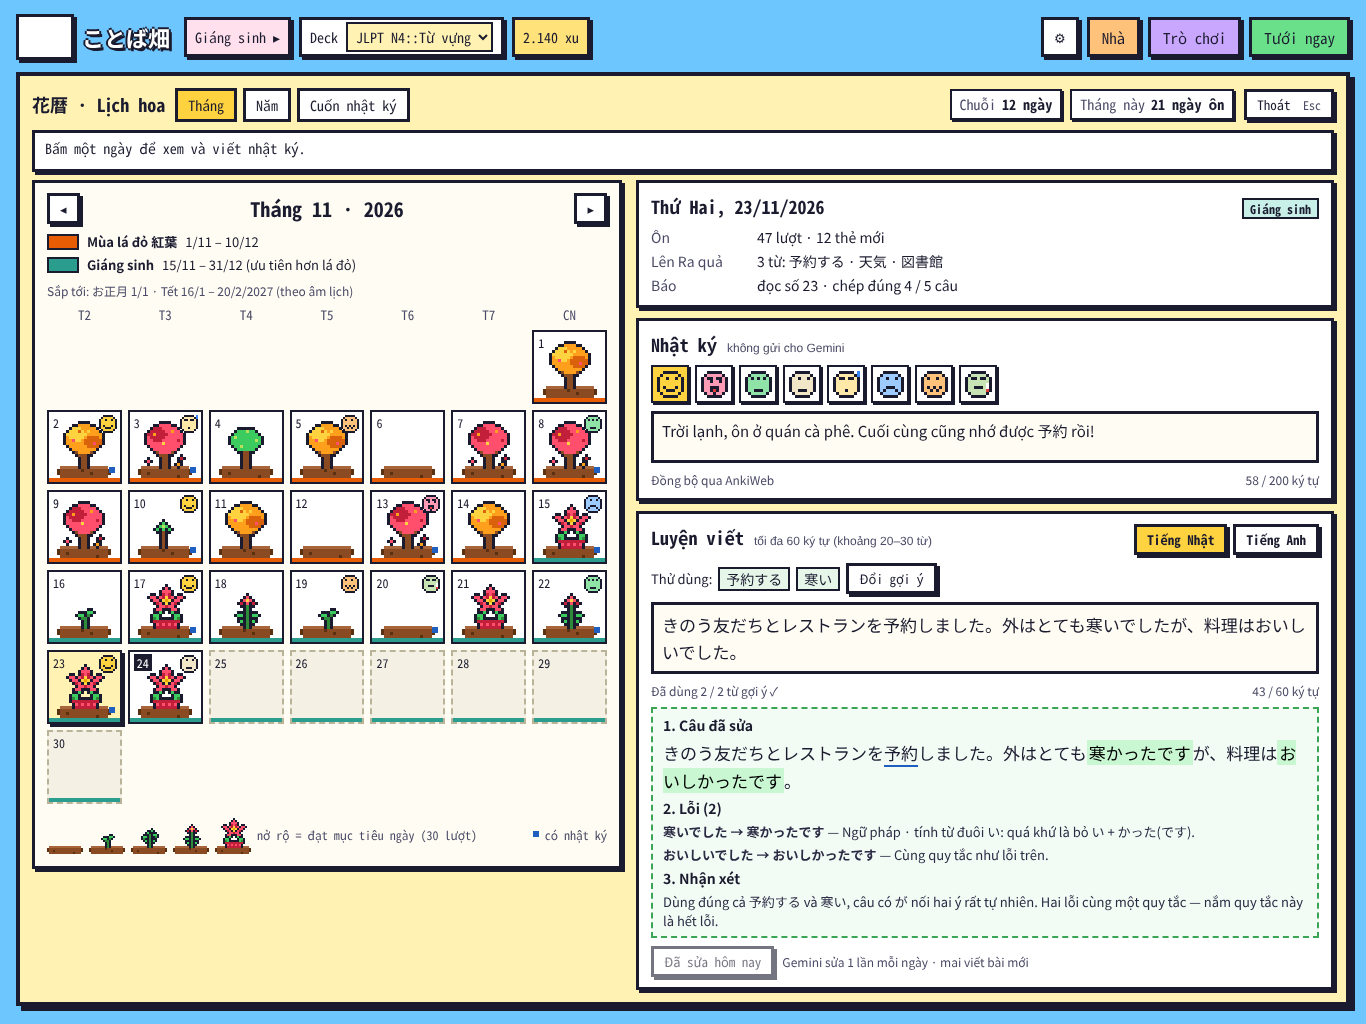
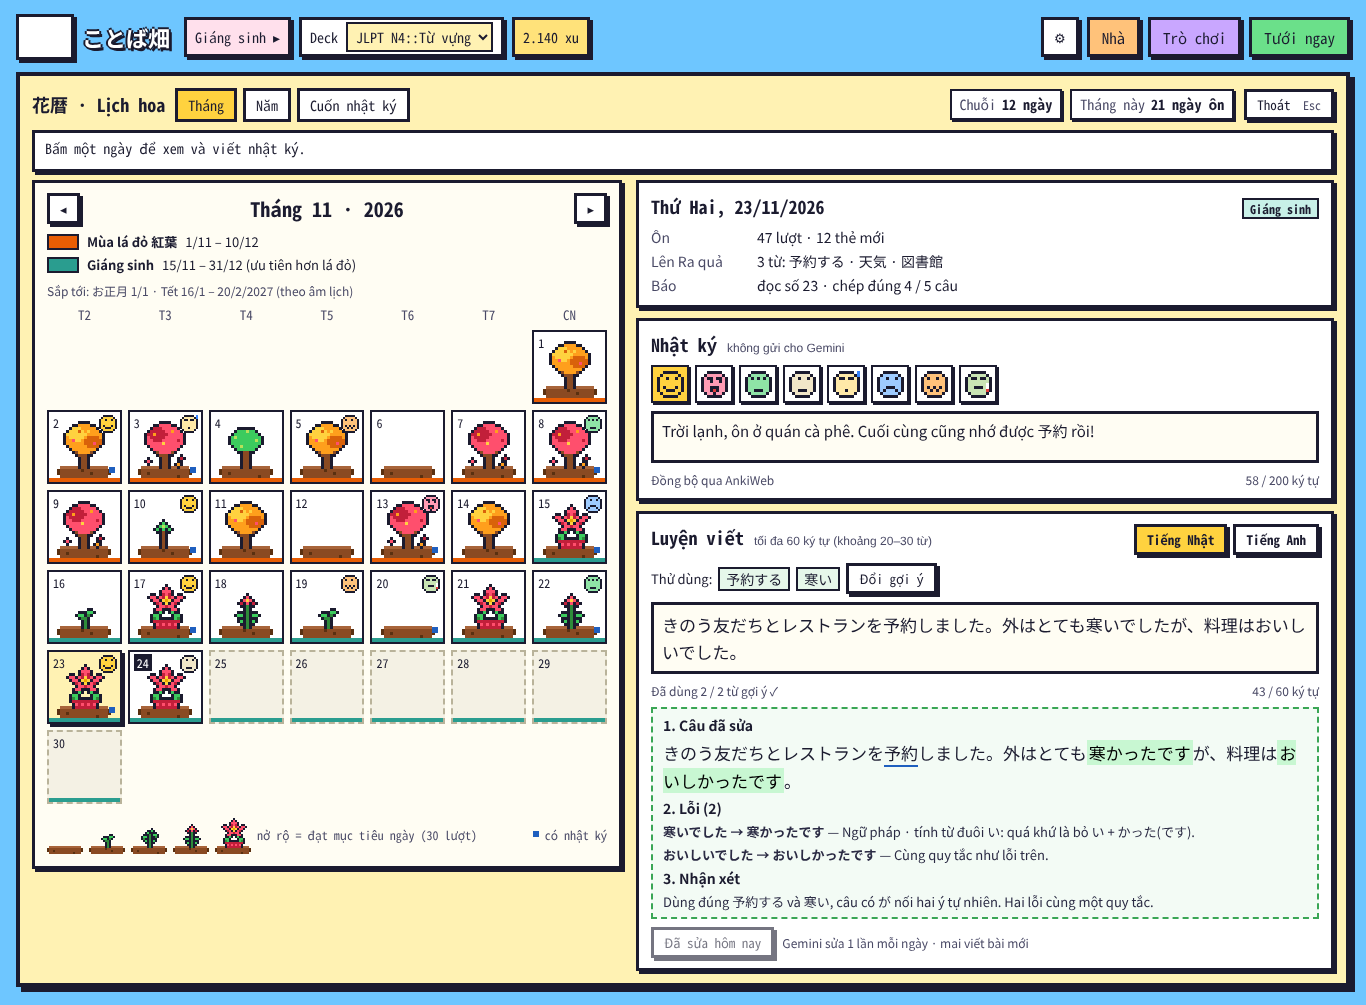
Kế hoạch 1.20: giới hạn độ dài đầu ra của Gemini khi sửa luyện viết, thử nội dung dài tối đa
- Lời nhắc ghi rõ giới hạn: tối đa 3 lỗi, giải thích 1 câu ≤ 60 ký tự, nhận xét ≤ 2 câu
  ≤ 100 ký tự, câu đã sửa ≤ bài gốc + 20%; máy cắt nếu quá (không gọi lại)
- Bản mẫu có chế độ ?long=ja|en: nhật ký 200 ký tự, luyện viết 60 ký tự / 30 từ, 3 lỗi —
  hiện hết, không tràn ở 1366 và 1024px; cuốn nhật ký ngắt trang theo chiều cao thật

Claude-Session: https://claude.ai/code/session_014Ka8eJ38fG28pkk8pqJwnr

Changed region(s): [[0.0, 0.0, 0.9839, 0.9871]]

diff --git a/thiet_ke_1_20/lich_hoa.html b/thiet_ke_1_20/lich_hoa.html
@@ -116,6 +116,27 @@
 <script>
 "use strict";
 const V = new URLSearchParams(location.search).get("v") || "month";
+// ?long=ja|en: thử nội dung dài tối đa (nhật ký 200 ký tự, luyện viết 60 ký tự / 30 từ, Gemini trả về đúng giới hạn)
+const LONG = new URLSearchParams(location.search).get("long") || "";
+const DIARY_MAX = "Hôm nay đi làm về muộn, mưa to nên ghé quán cà phê gần nhà ôn bài. Ôn được 47 thẻ, cuối cùng cũng nhớ được 予約 và 天気. Tối gọi cho mẹ, kể chuyện tháng sau thi N4. Hơi lo nhưng thấy mình đang tiến bộ dần.".slice(0, 200);
+const PR = LONG === "en" ? {
+  lang: "en", unit: "từ", max: 30, words: ["book", "rain"],
+  text: "Yesterday it rain a lot, so my friend and I book a small restaurant near the station and we eats dinner together. The food was delicious and we was happy.",
+  fixed: "Yesterday it <mark>rained</mark> a lot, so my friend and I <mark>booked</mark> a small restaurant near the station and we <mark>ate</mark> dinner together. The food was delicious and we <mark>were</mark> happy.",
+  loi: [["rain → rained", "Dạng chia · chuyện hôm qua thì dùng thì quá khứ."], ["book → booked", "Cùng quy tắc như lỗi trên."],
+        ["eats → ate", "Dạng chia · eat là động từ bất quy tắc: eat → ate."]],
+  more: "Còn 1 lỗi cùng loại: was → were.",
+  nx: "Dùng đúng book và rain. Lỗi chính là thì quá khứ: kể chuyện hôm qua thì chia hết động từ.",
+} : {
+  lang: "ja", unit: "ký tự", max: 60, words: ["予約する", "寒い"],
+  text: "きのうは雨だったので、友だちと駅の近くのレストランを予約しました。寒いでしたが、料理はおいしいでした。また行きたいです。",
+  fixed: "きのうは雨だったので、友だちと駅の近くのレストランを<u>予約</u>しました。<mark>寒かったです</mark>が、料理は<mark>おいしかったです</mark>。また<mark>行きたいと思います</mark>。",
+  loi: [["寒いでした → 寒かったです", "Ngữ pháp · tính từ đuôi い: quá khứ là bỏ い + かった(です)."], ["おいしいでした → おいしかったです", "Cùng quy tắc như lỗi trên."],
+        ["行きたいです → 行きたいと思います", "Tự nhiên hơn · nói ý định với người khác nên thêm と思います."]],
+  more: "",
+  nx: "Dùng đúng 予約する và 寒い, nối câu bằng ので, が tự nhiên. Hai lỗi đầu cùng một quy tắc.",
+};
+const plen = (t) => PR.lang === "en" ? t.split(/\s+/).filter(Boolean).length : t.replace(/<[^>]+>/g, "").length;
 const el = (t, c, s) => { const e = document.createElement(t); if (c) e.className = c; if (s !== undefined) e.textContent = s; return e; };
 // ---- sprite pixel ----
 function sprite(rows, pal, scale) {
@@ -243,33 +264,41 @@ function month() {
   const sr = el("div", "kb-cal-stk-row");
   Object.keys(FACE).forEach((k) => { const b = el("button", "kb-cal-stk-b" + (k === "vui" ? " is-on" : "")); b.title = FACE_NAME[k]; b.appendChild(face(k, 3)); sr.appendChild(b); });
   c2.appendChild(sr);
-  const inp = el("div", "kb-cal-in", "Trời lạnh, ôn ở quán cà phê. Cuối cùng cũng nhớ được 予約 rồi!"); inp.style.minHeight = "52px"; c2.appendChild(inp);
-  const m2 = el("div", "kb-cal-meta"); m2.appendChild(el("span", null, "Đồng bộ qua AnkiWeb")); m2.appendChild(el("span", null, "58 / 200 ký tự")); c2.appendChild(m2);
+  const inp = el("div", "kb-cal-in", LONG ? DIARY_MAX : "Trời lạnh, ôn ở quán cà phê. Cuối cùng cũng nhớ được 予約 rồi!"); inp.style.minHeight = "52px"; c2.appendChild(inp);
+  const m2 = el("div", "kb-cal-meta"); m2.appendChild(el("span", null, "Đồng bộ qua AnkiWeb")); m2.appendChild(el("span", null, (LONG ? DIARY_MAX.length : 58) + " / 200 ký tự")); c2.appendChild(m2);
   Rt.appendChild(c2);
 
+  const P = LONG ? PR : {
+    lang: "ja", unit: "ký tự", max: 60, words: ["予約する", "寒い"],
+    text: "きのう友だちとレストランを予約しました。外はとても寒いでしたが、料理はおいしいでした。",
+    fixed: "きのう友だちとレストランを<u>予約</u>しました。外はとても<mark>寒かったです</mark>が、料理は<mark>おいしかったです</mark>。",
+    loi: [["寒いでした → 寒かったです", "Ngữ pháp · tính từ đuôi い: quá khứ là bỏ い + かった(です)."], ["おいしいでした → おいしかったです", "Cùng quy tắc như lỗi trên."]],
+    more: "", nx: "Dùng đúng 予約する và 寒い, câu có が nối hai ý tự nhiên. Hai lỗi cùng một quy tắc.",
+  };
   const c3 = el("div", "kb-cal-card");
-  const h3 = el("div", "kb-cal-h"); h3.appendChild(el("span", null, "Luyện viết")); h3.appendChild(el("small", null, "tối đa 60 ký tự (khoảng 20–30 từ)"));
+  const h3 = el("div", "kb-cal-h"); h3.appendChild(el("span", null, "Luyện viết"));
+  h3.appendChild(el("small", null, P.lang === "en" ? "tối đa 30 từ" : "tối đa 60 ký tự (khoảng 20–30 từ)"));
   const lc = el("div", "kb-ai-chips"); lc.style.marginLeft = "auto";
-  [["Tiếng Nhật", 1], ["Tiếng Anh", 0]].forEach((x) => { const b = el("button", "kb-btn kb-btn-small kb-ai-chip" + (x[1] ? " is-on" : ""), x[0]); if (x[1]) { b.style.background = "#ffd23f"; } lc.appendChild(b); });
+  [["Tiếng Nhật", "ja"], ["Tiếng Anh", "en"]].forEach((x) => { const b = el("button", "kb-btn kb-btn-small kb-ai-chip" + (x[1] === P.lang ? " is-on" : ""), x[0]); if (x[1] === P.lang) { b.style.background = "#ffd23f"; } lc.appendChild(b); });
   h3.appendChild(lc);
   c3.appendChild(h3);
   const hint = el("div", "kb-cal-hint"); hint.appendChild(el("span", null, "Thử dùng:"));
-  ["予約する", "寒い"].forEach((w) => hint.appendChild(el("span", "kb-cal-word", w)));
+  P.words.forEach((w) => hint.appendChild(el("span", "kb-cal-word", w)));
   hint.appendChild(el("button", "kb-btn kb-btn-small", "Đổi gợi ý"));
   c3.appendChild(hint);
-  const ta = el("div", "kb-cal-in kb-cal-ta", "きのう友だちとレストランを予約しました。外はとても寒いでしたが、料理はおいしいでした。"); c3.appendChild(ta);
-  const m3 = el("div", "kb-cal-meta"); m3.appendChild(el("span", null, "Đã dùng 2 / 2 từ gợi ý ✓")); m3.appendChild(el("span", null, "43 / 60 ký tự")); c3.appendChild(m3);
+  const ta = el("div", "kb-cal-in kb-cal-ta", P.text); if (P.lang === "en") { ta.style.fontFamily = '"Noto Sans", sans-serif'; ta.style.fontSize = "16px"; } c3.appendChild(ta);
+  const m3 = el("div", "kb-cal-meta"); m3.appendChild(el("span", null, "Đã dùng 2 / 2 từ gợi ý ✓")); m3.appendChild(el("span", null, plen(P.text) + " / " + P.max + " " + P.unit)); c3.appendChild(m3);
   const fx = el("div", "kb-cal-fix");
   fx.appendChild(el("b", null, "1. Câu đã sửa"));
-  const jp = el("div", "jp"); jp.innerHTML = "きのう友だちとレストランを<u>予約</u>しました。外はとても<mark>寒かったです</mark>が、料理は<mark>おいしかったです</mark>。"; fx.appendChild(jp);
-  fx.appendChild(el("b", null, "2. Lỗi (2)"));
-  [["寒いでした → 寒かったです", "Ngữ pháp · tính từ đuôi い: quá khứ là bỏ い + かった(です)."],
-   ["おいしいでした → おいしかったです", "Cùng quy tắc như lỗi trên."]].forEach((e) => {
+  const jp = el("div", "jp"); jp.innerHTML = P.fixed; if (P.lang === "en") { jp.style.fontFamily = '"Noto Sans", sans-serif'; jp.style.fontSize = "16px"; } fx.appendChild(jp);
+  fx.appendChild(el("b", null, "2. Lỗi (" + P.loi.length + (P.more ? "+" : "") + ")"));
+  P.loi.forEach((e) => {
     const r = el("div", "why"); const a = el("span", "jp-s", e[0]); a.style.fontFamily = '"Noto Sans CJK JP", sans-serif'; a.style.fontWeight = "700";
     r.appendChild(a); r.appendChild(document.createTextNode(" — " + e[1])); fx.appendChild(r);
   });
+  if (P.more) { const r = el("div", "why", P.more); r.style.color = "#4a4a66"; fx.appendChild(r); }
   fx.appendChild(el("b", null, "3. Nhận xét"));
-  fx.appendChild(el("div", "why", "Dùng đúng cả 予約する và 寒い, câu có が nối hai ý rất tự nhiên. Hai lỗi cùng một quy tắc — nắm quy tắc này là hết lỗi."));
+  fx.appendChild(el("div", "why", P.nx));
   c3.appendChild(fx);
   const acts = el("div", "kb-cal-acts");
   const done = el("button", "kb-btn kb-btn-small", "Đã sửa hôm nay"); done.disabled = true; done.style.opacity = "0.6"; acts.appendChild(done);
@@ -379,7 +408,12 @@ function book() {
   const f1 = el("div", "kb-page-foot"); f1.appendChild(el("span", null, "ことば畑")); f1.appendChild(el("span", null, "1")); p1.appendChild(f1);
   bk.appendChild(p1);
   const p2 = el("div", "kb-page");
-  const E = [
+  const E = LONG ? [
+    ["01 T5", 3, "vui", DIARY_MAX, "きのうは雨だったので、友だちと駅の近くのレストランを予約しました。寒かったですが、料理はおいしかったです。"],
+    ["02 T6", 4, "ban", DIARY_MAX, "Yesterday it rained a lot, so my friend and I booked a small restaurant near the station and ate dinner together."],
+    ["03 T7", 2, "met", DIARY_MAX],
+    ["05 T2", 3, "thu_thai", DIARY_MAX, "公園でゆっくり新聞を読みました。"],
+  ] : [
     ["01 T5", 3, "vui", "Ngày đầu tháng, vườn treo đèn bí ngô rồi."],
     ["02 T6", 2, "ban", "Bận làm, chỉ kịp ôn trên điện thoại.", "電車で単語を覚えました。"],
     ["03 T7", 4, "hao_hung", "Lên N4 bài 29! Kính ngữ khó mà vui.", "先生がお話しになりました。"],

diff --git a/KE_HOACH_1_20.md b/KE_HOACH_1_20.md
@@ -1,7 +1,7 @@
 # Kế hoạch 1.20 – 1.22: Lịch hoa, nhật ký, luyện viết, cuốn nhật ký · khách ghé vườn · tự vẽ giống cây, mã chia sẻ, chụp ảnh vườn
 
 > **Trạng thái: CHƯA LÀM — thiết kế và mọi câu hỏi đã chốt với người dùng (04/11/2026), phiên sau làm luôn từ 1.20.** Viết sau khi xong 1.19.1, từ buổi người dùng và Claude cùng nghĩ ý rồi xem bản mẫu.
-> **Bản thiết kế**: thư mục [`thiet_ke_1_20/`](thiet_ke_1_20/) — xem nhanh ảnh trong `thiet_ke_1_20/anh/`; mở `lich_hoa.html?v=month|year|book` và `hoa.html` bằng trình duyệt (đã kèm `garden.css`, `seeds.js` của gói và phần hình của cây gốc nên mở được ngay). Mã trong đó là mã **mẫu** (số liệu giả) để lấy hình, bố cục, màu, chữ — khi làm thì viết lại đúng kiến trúc add-on (Python giữ dữ liệu, JS chỉ vẽ).
+> **Bản thiết kế**: thư mục [`thiet_ke_1_20/`](thiet_ke_1_20/) — xem nhanh ảnh trong `thiet_ke_1_20/anh/` (1–5: thiết kế; 6–9: nội dung dài tối đa); mở `lich_hoa.html?v=month|year|book` (thêm `&long=ja` hoặc `&long=en` để thử nội dung dài) và `hoa.html` bằng trình duyệt (đã kèm `garden.css`, `seeds.js` của gói và phần hình của cây gốc nên mở được ngay). Mã trong đó là mã **mẫu** (số liệu giả) để lấy hình, bố cục, màu, chữ — khi làm thì viết lại đúng kiến trúc add-on (Python giữ dữ liệu, JS chỉ vẽ).
 > Làm xong thì **xoá file này, thư mục `thiet_ke_1_20/`**, dòng trỏ tới chúng ở `README.md` mục 0 và hai dòng `!/KE_HOACH_1_20.md`, `!/thiet_ke_1_20/` trong `.gitignore`. Làm dở thì cập nhật mục 10 "Tiến độ" rồi mới commit.
 > Cách làm việc, môi trường, test: `README.md` mục 8, `tests/README.md` (giải nén gói → sửa → test offline + Anki thật → đóng gói). Quy tắc chữ / nút: `README.md` mục 0 (bảng thuật ngữ 1.19.1, nút đang chọn chỉ đổi nền).
 
@@ -76,7 +76,22 @@
   2. **Lỗi (tối đa 3)** — mỗi lỗi: "chỗ sai → sửa", loại (ngữ pháp / từ / trợ từ / chính tả / dạng chia), một câu giải thích tiếng Việt. Lỗi cùng quy tắc thì nói gộp ("Cùng quy tắc như lỗi trên").
   3. **Nhận xét** — 1–2 câu tiếng Việt: khen chỗ làm đúng (vd. dùng đúng từ gợi ý), nhắc một điều nên nhớ.
   - Bài không có lỗi: ghi "Không có lỗi" + một **cách nói tự nhiên hơn** (tuỳ chọn, ghi rõ là "tự nhiên hơn", không phải "sai").
-- **Gemini** (`ai_core`, `responseSchema` JSON như báo): `{"sua": str, "loi": [{"goc": str, "sua": str, "loai": str, "giai_thich": str}] (≤ 3), "tu_nhien": str, "nhan_xet": str}`. Máy kiểm tra: `sua` đúng ngôn ngữ (dùng `check_jp` / `ai_en.check_en` mức nhẹ), không dài quá 2 lần bài gốc, `goc` có trong bài gốc, phần tiếng Việt có dấu; sai thì bỏ phần đó (không gọi lại — giữ 1 lượt / ngày). Lời nhắc dặn trình độ (N4 / A2… như báo) và "chỉ sửa lỗi thật, giữ cách nói của người học".
+- **Gemini** (`ai_core`, `responseSchema` JSON như báo): `{"sua": str, "loi": [{"goc": str, "sua": str, "loai": str, "giai_thich": str}] (maxItems 3), "con_lai": str, "tu_nhien": str, "nhan_xet": str}`. Lời nhắc dặn trình độ (N4 / A2… như báo), "chỉ sửa lỗi thật, giữ cách nói của người học", tiếng Việt có dấu, không markdown, không emoji, không đánh dấu furigana.
+- **Giới hạn độ dài đầu ra — ghi rõ từng con số trong lời nhắc, kèm một ví dụ JSON đúng giới hạn** (người dùng: "nhận xét của Gemini phải ngắn gọn, quy định trước cho Gemini"):
+
+  | Trường | Giới hạn | Ghi chú |
+  |---|---|---|
+  | `sua` (câu đã sửa) | ≤ bài gốc + 20% (tiếng Nhật ≤ 72 ký tự, tiếng Anh ≤ 36 từ) | sửa ít nhất có thể |
+  | `loi` | **tối đa 3** | lỗi quan trọng nhất trước |
+  | `goc` / `sua` của một lỗi | chỉ trích đúng chỗ sai: ≤ 15 ký tự (tiếng Nhật) / ≤ 5 từ (tiếng Anh) | không chép cả câu |
+  | `loai` | một trong: ngữ pháp, dạng chia, từ, trợ từ, chính tả, tự nhiên hơn | máy hiện trước giải thích, vd. "Dạng chia · …" |
+  | `giai_thich` | **1 câu, ≤ 60 ký tự** | lỗi cùng quy tắc: "Cùng quy tắc như lỗi trên." |
+  | `con_lai` | ≤ 60 ký tự, để trống nếu ≤ 3 lỗi | vd. "Còn 1 lỗi cùng loại: was → were." |
+  | `nhan_xet` | **tối đa 2 câu, ≤ 100 ký tự** | một câu khen chỗ đúng + một điều nên nhớ |
+  | `tu_nhien` | chỉ khi **không có lỗi**, ≤ độ dài bài gốc | "cách nói tự nhiên hơn" |
+
+  **Máy kiểm tra sau khi nhận** (không gọi lại — giữ 1 lượt / ngày): quá giới hạn thì cắt ở dấu hết câu gần nhất trong giới hạn, không có thì cắt + "…"; bỏ lỗi thứ 4 trở đi; bỏ lỗi có `goc` không nằm trong bài gốc; `sua` sai ngôn ngữ (dùng `check_jp` / `ai_en.check_en` mức nhẹ) hoặc dài quá 2 lần bài gốc thì chỉ hiện lỗi + nhận xét; phần tiếng Việt không dấu thì bỏ phần đó. Ghi nhật ký những gì đã cắt (như nhật ký báo).
+- **Nội dung dài tối đa vẫn hiện hết** (đã thử bản mẫu `?long=ja` / `?long=en`, ảnh `6_` – `9_`): khung ngày cao lên theo nội dung, không cắt chữ, không tràn ngang ở 1366 và 1024px. Ô nhật ký / luyện viết **tự giãn** theo nội dung (2–4 dòng), không có thanh cuộn trong ô. Bảng Lịch hoa cuộn dọc như bảng Báo khi khung ngày dài hơn cửa sổ.
 - **Lỗi lưu lại** (loại + quy tắc ngắn) → trang "Lỗi hay gặp tháng này" trong cuốn nhật ký.
 - **Không có xu** (người dùng chốt 04/11), cả nhật ký lẫn luyện viết.
 
@@ -85,7 +100,8 @@
 - Hết tháng → tự đóng thành **một cuốn**; hết năm → thêm một cuốn dày gộp 12 tháng. Tháng đang chạy cũng xem được ("bản nháp").
 - Tab **Cuốn nhật ký**: bên trái **Kệ sách** (gáy sách màu theo giao diện mùa của tháng, cuốn năm to hơn, cuốn đang mở viền vàng); bên phải sách mở hai trang, nút ◂ Trang trước · Trang sau ▸ · **Xuất PDF**.
 - **Trang đầu**: "Tháng 10 · 2026", giao diện mùa + ngày chụp ảnh, **ảnh vườn** (mục 8.3), tổng kết (ngày ôn a / b, lượt ôn, từ ra quả mới, ngày ôn nhiều nhất, số ngày có nhật ký, số bài luyện viết), tâm trạng của tháng (sticker × số lần), **Lỗi hay gặp** (vd. "tính từ đuôi い (〜かった) ×4 · trợ từ に / で ×2").
-- **Các trang sau**: mỗi ngày một dòng — ngày + thứ, cây, sticker, nhật ký, câu luyện viết đã sửa (màu xanh, ✎). **Chỉ ghi ngày có ôn hoặc có viết** (bỏ ngày trống cho cuốn gọn).
+- **Các trang sau**: mỗi ngày một dòng — ngày + thứ, cây, sticker, nhật ký, câu luyện viết đã sửa (màu xanh, ✎; không in lỗi / nhận xét — gom vào "Lỗi hay gặp" ở trang đầu). **Chỉ ghi ngày có ôn hoặc có viết** (bỏ ngày trống cho cuốn gọn).
+- **Ngắt trang theo chiều cao thật** (đo sau khi vẽ), không theo số ngày cố định: ngày viết dài tối đa thì một trang chỉ khoảng 4 ngày (ảnh `8_cuon_nhat_ky_noi_dung_dai.png`), ngày ngắn thì 8–10 ngày. Không cắt một ngày ra hai trang. Trang có chiều cao cố định (như khổ A5 khi xuất PDF).
 - **Kệ sách trong nhà**: món `shelf` đã có trong `garden_core.CATALOG` — đặt kệ trong phòng thì bấm vào là mở tab này; chưa có kệ thì mở từ Lịch hoa.
 - **Xuất PDF**: dựng HTML của cuốn rồi `printToPdf` (QtWebEngine trong Anki), lưu bằng `getSaveFile` như Báo lỗi; khổ A5 dọc, mỗi tháng một file.
 
@@ -134,6 +150,8 @@ Phải nhớ khi làm:
 - 4 loài hoa mới cần vẽ kỹ lại (mục 2).
 - Kiểm tra phím tắt `L` chưa trùng; `audit.js` thêm 3 màn Lịch hoa + màn 1024px; chữ theo bảng thuật ngữ (không "add-on", Bật / Tắt…).
 - Gemini: luyện viết dùng chung hạn mức với báo (1 lượt / ngày, ít); chọn model như báo (`ai_core.Gemini`).
+- Câu mẫu tiếng Anh đầu tiên của bản mẫu dài 32 từ (quá 30) — bộ đếm phải chặn thật khi gõ / dán, kể cả dán cả đoạn dài (cắt ở từ thứ 30 và báo "đã cắt bớt").
+- Test độ dài: Gemini giả lập trả về quá mọi giới hạn → máy cắt đúng; nội dung dài tối đa → không tràn (đo như `audit.js`); cuốn nhật ký toàn ngày dài → ngắt trang đúng.
 
 ## 10. Thứ tự làm và tiến độ
 
@@ -145,6 +163,7 @@ Mỗi phần: test offline (dữ liệu, làm sạch, đếm revlog theo ngày, 
 
 - [x] Chốt ý (04/11), đồng bộ nhật ký, thiết kế Lịch hoa / Nhật ký / Luyện viết / Cuốn nhật ký / hoa theo mùa (`thiet_ke_1_20/`)
 - [x] Luyện viết không có xu; giao diện mùa giữ mua một lần (người dùng chốt 04/11)
+- [x] Thử nội dung dài tối đa trên bản mẫu; chốt giới hạn đầu ra của Gemini (mục 4)
 - [ ] Lịch hoa (tháng, năm, hoa theo mùa, vẽ kỹ 4 loài mới)
 - [ ] Nhật ký + sticker
 - [ ] Luyện viết
